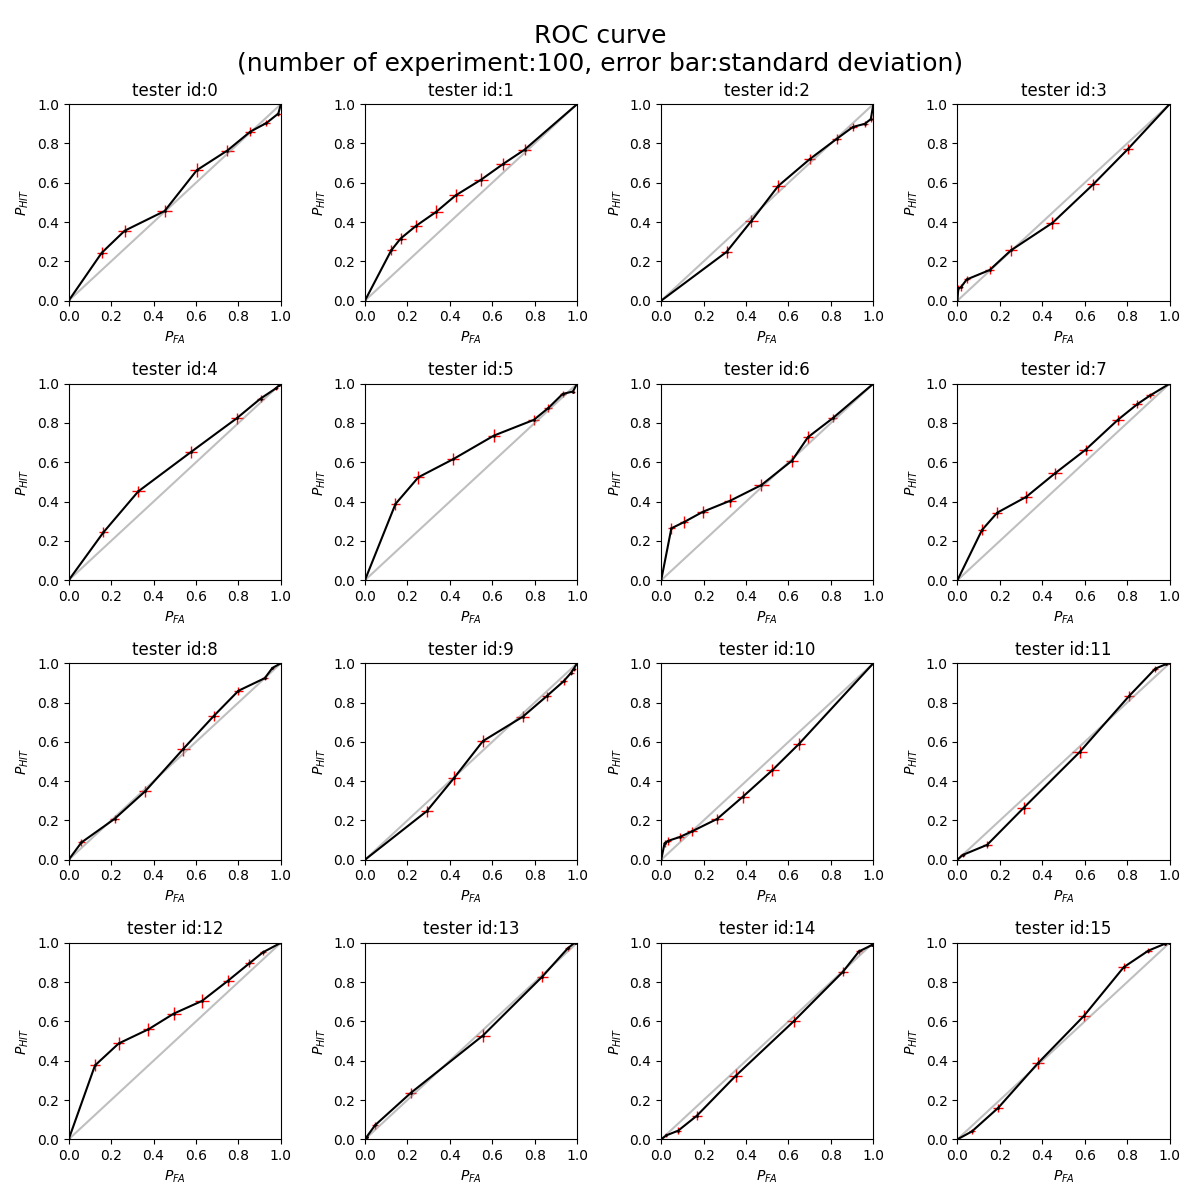
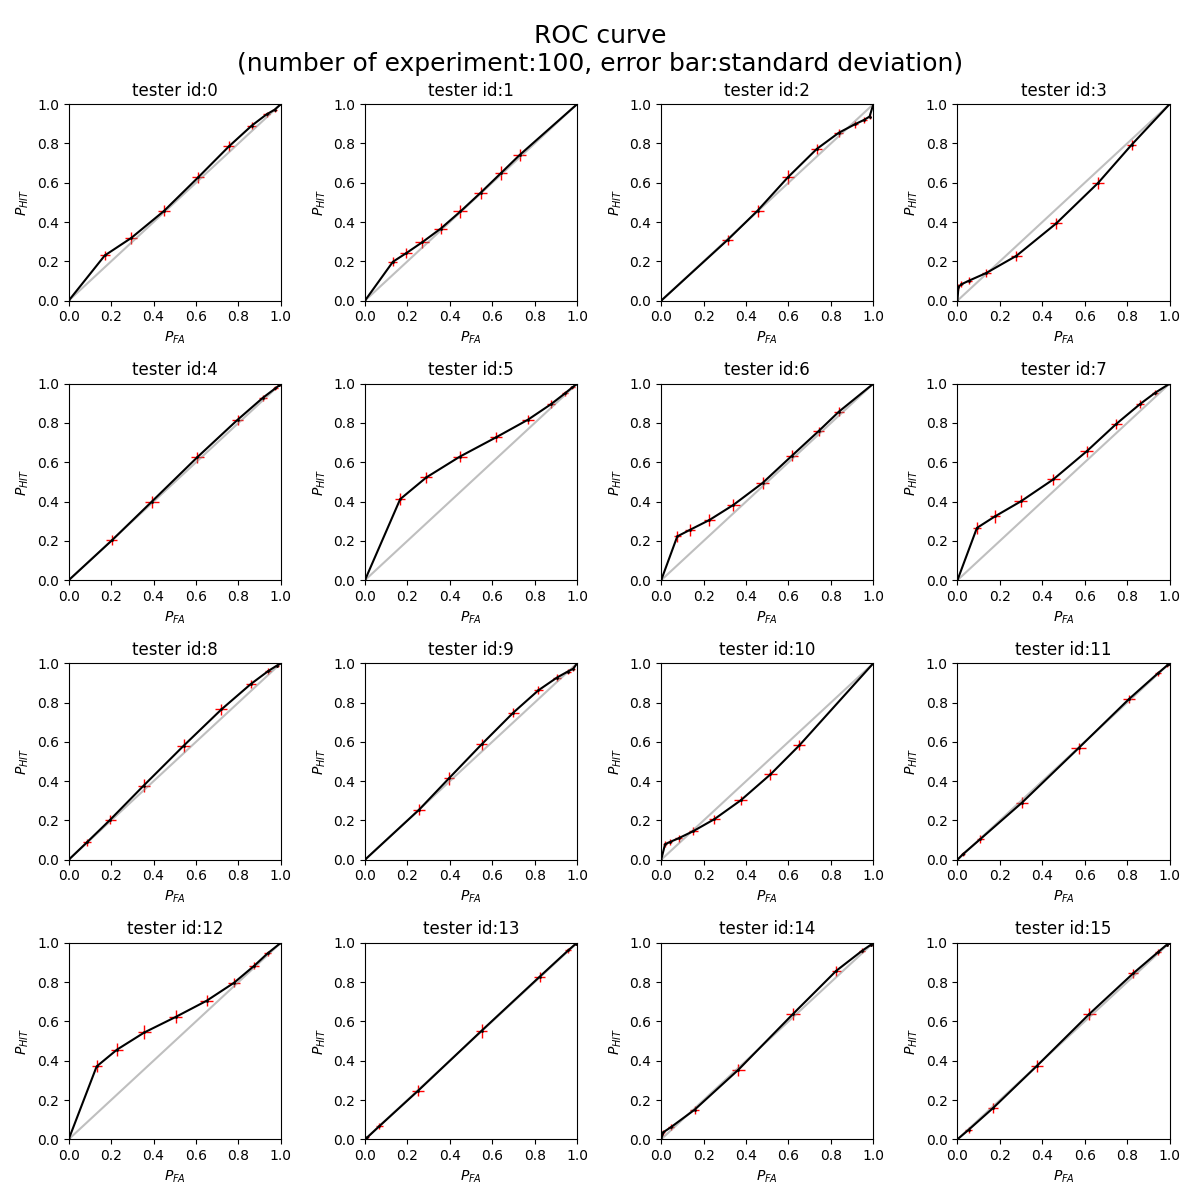
update

diff --git a/scripts/exam_model_ROC.py b/scripts/exam_model_ROC.py
@@ -84,6 +84,7 @@ if __name__ == '__main__':
     subplot_col = 4
     fig,axes = plt.subplots(subplot_row,subplot_col, figsize=(12, 12))
 
+    fig_gau, axes_gau = plt.subplots(subplot_row, subplot_col, figsize=(12, 12))
 
     # get the parameters for all tester
     for i in tqdm(range(16)):
@@ -138,7 +139,7 @@ if __name__ == '__main__':
         mean_p_hit = np.mean(p_hit_collects,axis=0)
 
         # plot_ROC(mean_p_fa, mean_p_hit, title_info='tester id:{}  number of experiment:{}'.format(tester_number,N_experiment),error_p_fa=error_p_fa,error_p_hit=error_p_hit)
-        axes[axes_idx_row,axes_idx_col].errorbar(p_fa, p_hit, xerr= error_p_fa,yerr=error_p_hit,
+        axes[axes_idx_row,axes_idx_col].errorbar(mean_p_fa, mean_p_hit, xerr= error_p_fa,yerr=error_p_hit,
                      marker='o',markerfacecolor='None', color='k', markersize=1,
                      ecolor = 'red',elinewidth = 1)
         xs = np.linspace(0, 1, 100)
@@ -149,5 +150,36 @@ if __name__ == '__main__':
         axes[axes_idx_row, axes_idx_col].set_xlim(0, 1)
         axes[axes_idx_row, axes_idx_col].set_ylim(0, 1)
 
+
+        # roc in gaussian corrdinate
+        inv_p_hit_collects = norm.ppf(p_hit_collects)
+        inv_p_fa_collects = norm.ppf(p_fa_collects)
+
+        error_inv_p_fa = np.nanstd(inv_p_fa_collects, axis=0)  # /np.sqrt(N_experiment)
+        error_inv_p_hit = np.nanstd(inv_p_hit_collects, axis=0)  # /np.sqrt(N_experiment)
+
+        mean_inv_p_fa = np.nanmean(inv_p_fa_collects, axis=0)
+        mean_inv_p_hit = np.nanmean(inv_p_hit_collects, axis=0)
+
+        axes_gau[axes_idx_row, axes_idx_col].errorbar(mean_inv_p_fa, mean_inv_p_hit,
+                     xerr= error_inv_p_fa,yerr=error_inv_p_hit,
+                     ecolor = 'black',elinewidth = 1,linestyle="None")
+        axes_gau[axes_idx_row,axes_idx_col].scatter(mean_inv_p_fa, mean_inv_p_hit,marker='o', color='royalblue', s=20,alpha=0.5)
+        xs = np.linspace(-2, 2, 100)
+        xs_ = np.zeros(100)
+        axes_gau[axes_idx_row, axes_idx_col].plot(xs_, xs, color='grey', alpha=0.5)
+        axes_gau[axes_idx_row, axes_idx_col].plot(xs, xs_, color='grey', alpha=0.5)
+        axes_gau[axes_idx_row, axes_idx_col].set_title('tester id:{}'.format(tester_number))
+        axes_gau[axes_idx_row, axes_idx_col].set_xlabel('$Z_{FA}$')
+        axes_gau[axes_idx_row, axes_idx_col].set_ylabel('$Z_{HIT}$')
+        axes_gau[axes_idx_row, axes_idx_col].set_xlim(-2, 2)
+        axes_gau[axes_idx_row, axes_idx_col].set_ylim(-2, 2)
+
+
+
     fig.suptitle('ROC curve\n(number of experiment:{}, error bar:{})'.format(N_experiment,'standard deviation'),fontsize=18)
     fig.show()
+
+    fig_gau.suptitle('ROC in Gaussian Coordinates\n(number of experiment:{}, error bar:{})'.format(N_experiment, 'standard deviation'),
+                 fontsize=18)
+    fig_gau.show()

diff --git a/scripts/gaussian_vis.py b/scripts/gaussian_vis.py
@@ -21,7 +21,7 @@ TEXT_Y = [0.35,0.4,0.48]
 # 5,12 - two-peak, asymmetric
 # 6,7 - one-peak, asymmetric
 
-test_index = 5
+test_index = 14
 print('tester index:{}'.format(test_index))
 
 fitted_param_path_bci = '../fitted_params/fitted_params_bci_full_4.npy'

diff --git a/README.md b/README.md
@@ -93,15 +93,29 @@ The plot below shows the distribution of $diff$ for both BCI and JPM samples for
 
 Another way of analyzing the refitting result is simply checking the ROC curve. From signal detection theory, the ROC curve is used for measure the sensitivity between two signals (or one signal and one noise). Just as the plot shows below, when curve is more close to the diagonal, two signals are more similar to each other. 
 
-![roc_illustration](./img/roc_illustration.jpg)
+![roc_illustration](./img/roc_illustration.JPG)
 
 The plot below shows the ROC curve for 16 tester.
 
 ![](./results/plots/roc_curve.png)
 
+We could observe from this plot that for most of the tester, the 2 fitted model are quite similar with each other, just like the plot we show before {**plots needed(the fitted distribution for every tester)**}. What worth mentioning is the tester no.5,6,7 and 12 are quite different from the others. They show a 'peak' with low $P_{FA}$ area while being close to the diagonal with large $P_{FA}$ area.
+
+ROC curve in Gaussian coordinates could not only help us to measure the sensitivity (d') at one glimpse (with even covariance, d' is the intercept of the fitted line), but also reveal whether the signals are both gaussian distributed. If both signals are gaussian distributed, then the nodes should be linear distributed. 
+
+Below the plot shows the ROC in Gaussian coordinates for 16 testers. It could be seen that tester No.2,3,5,6,7,10,12 are clearly having non-Gaussian distribution for BCI model. 
 
 
 
+![](./results/plots/roc_curve_gau.png) 
+
+##### 5.2.4 *p*-value and significance test
+
+The last method we used for analyzing the difference between 2 fitted model is significance test. The idea is  to exam how confident we are with the following null hypothesis: for JPM samples, JPM model works better than BCI model (also the other way around: for BCI samples, BCI model works better than JPM model). 
+
+We are going to generate one set of samples for each tester from both fitted distributions, then using both model to fit the stimulated data again. After this the $s_M$ for both model would be calculated, then we will use $diff$ for testing is it significantly larger/less than 0. 
+
+The above experiment would be done for 100 times. By collecting all the p-value from 100 experiments, the hypothesis could be well tested.
 
 
 
